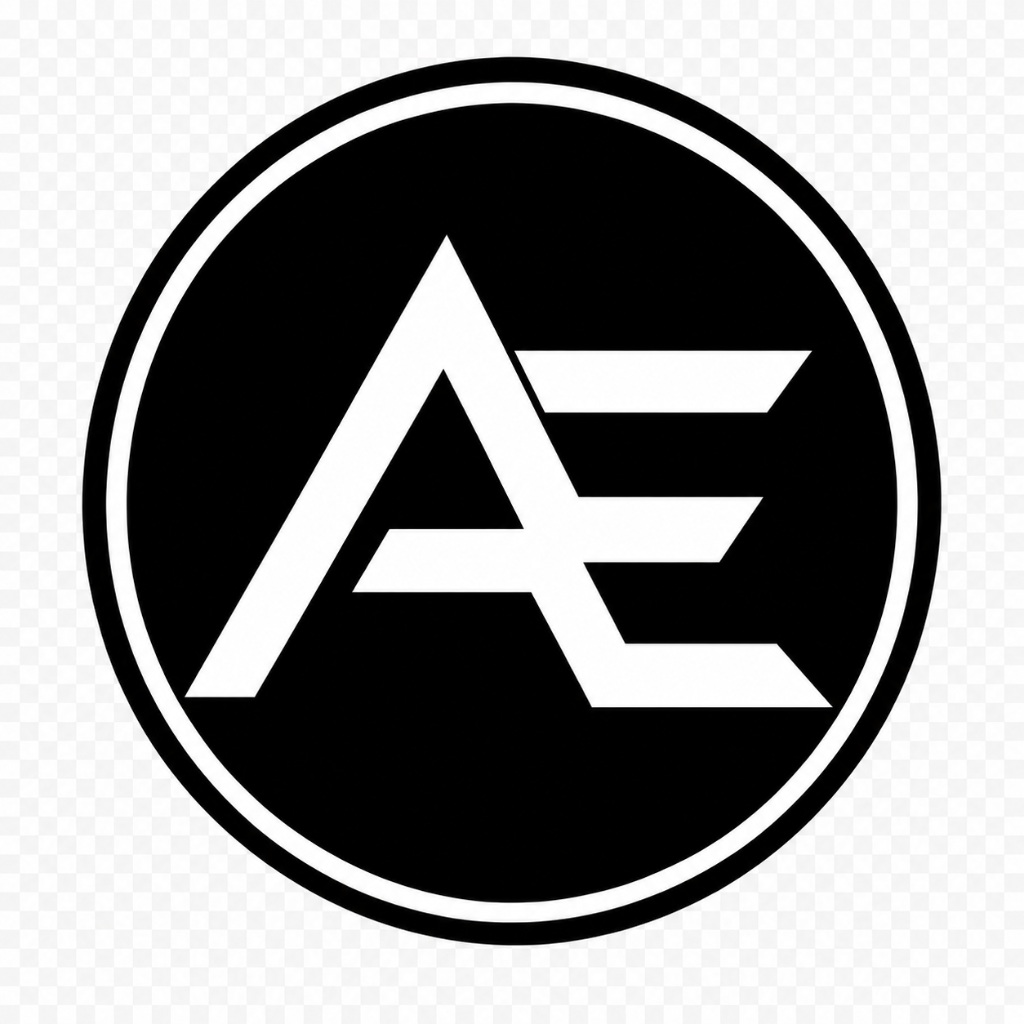
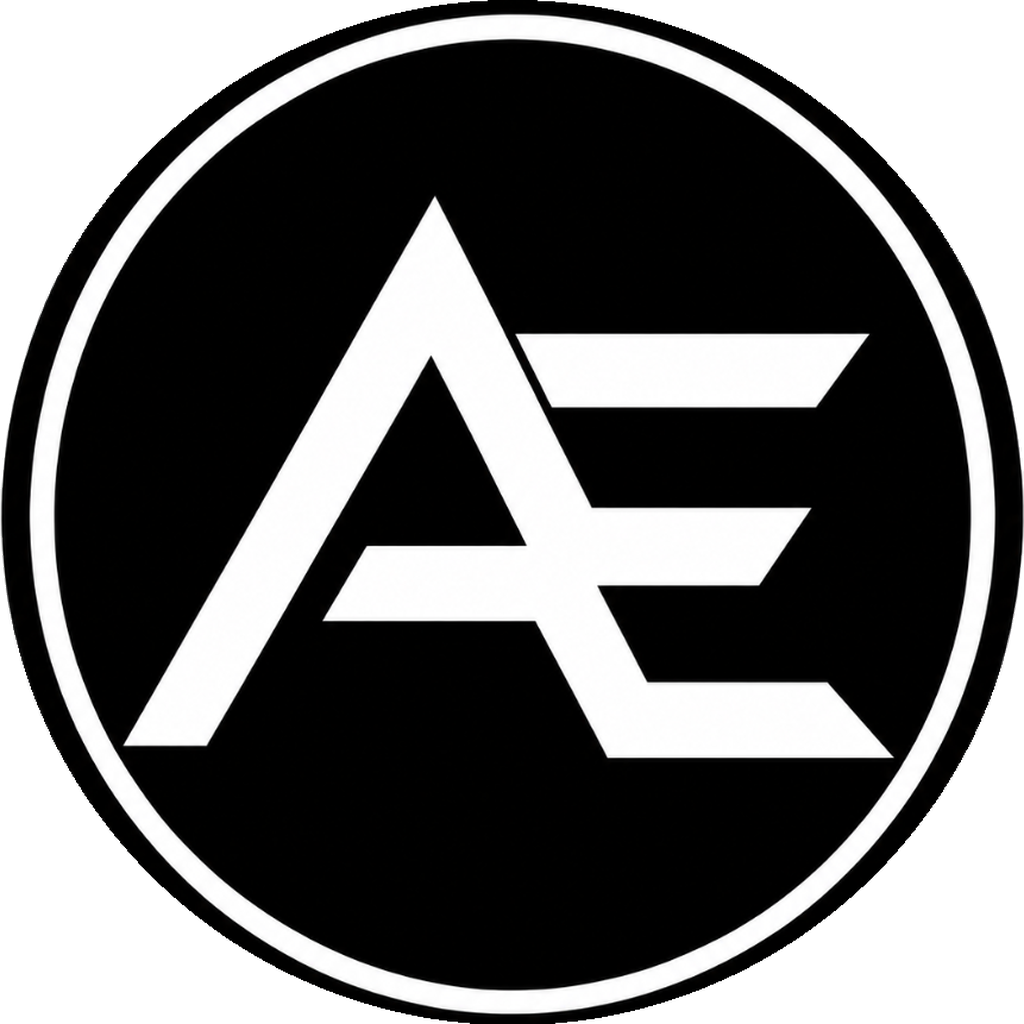
Лого: честная прозрачность вместо вшитой шахматки
В PNG был запечён шахматный фон вокруг круга. Вырезан круг по границе
диска с альфа-маской, пересобраны все три размера (192/512/favicon).

Changed region(s): [[0.0, 0.0, 1.0, 1.0], [0.375, 0.4375, 0.5312, 0.5312]]

diff --git a/web/index.html b/web/index.html
@@ -20,7 +20,7 @@
         <div id="login-screen" class="tg-auth-wrapper">
             <div class="tg-auth-box">
                 <div class="tg-logo">
-                    <img src="icon-192x192.png" alt="Æther" class="tg-logo-img">
+                    <img src="icon-192x192.png?v=2" alt="Æther" class="tg-logo-img">
                 </div>
                 <h2>Æther</h2>
                 <p class="tg-subtitle">Защищённый мессенджер</p>
